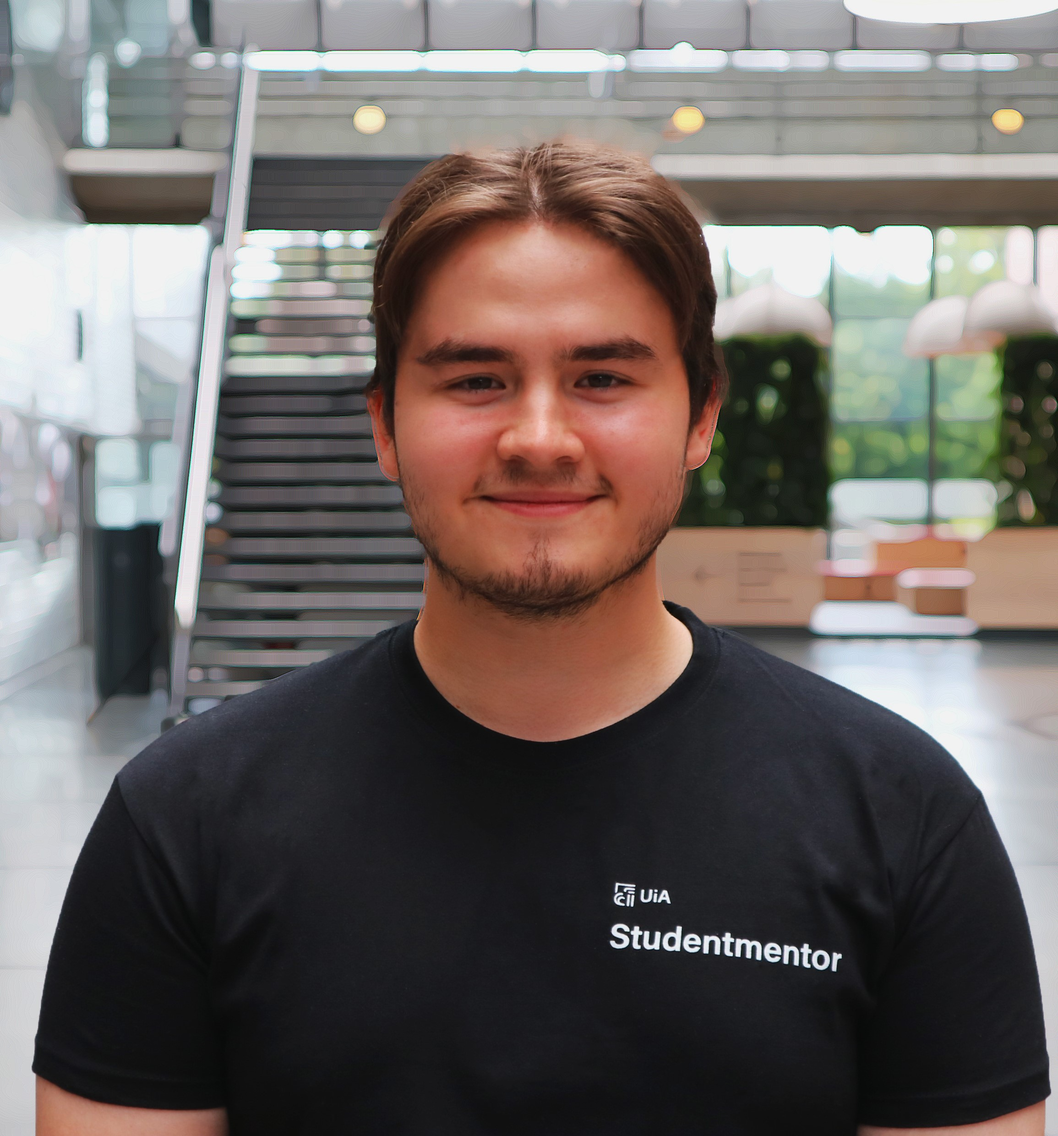
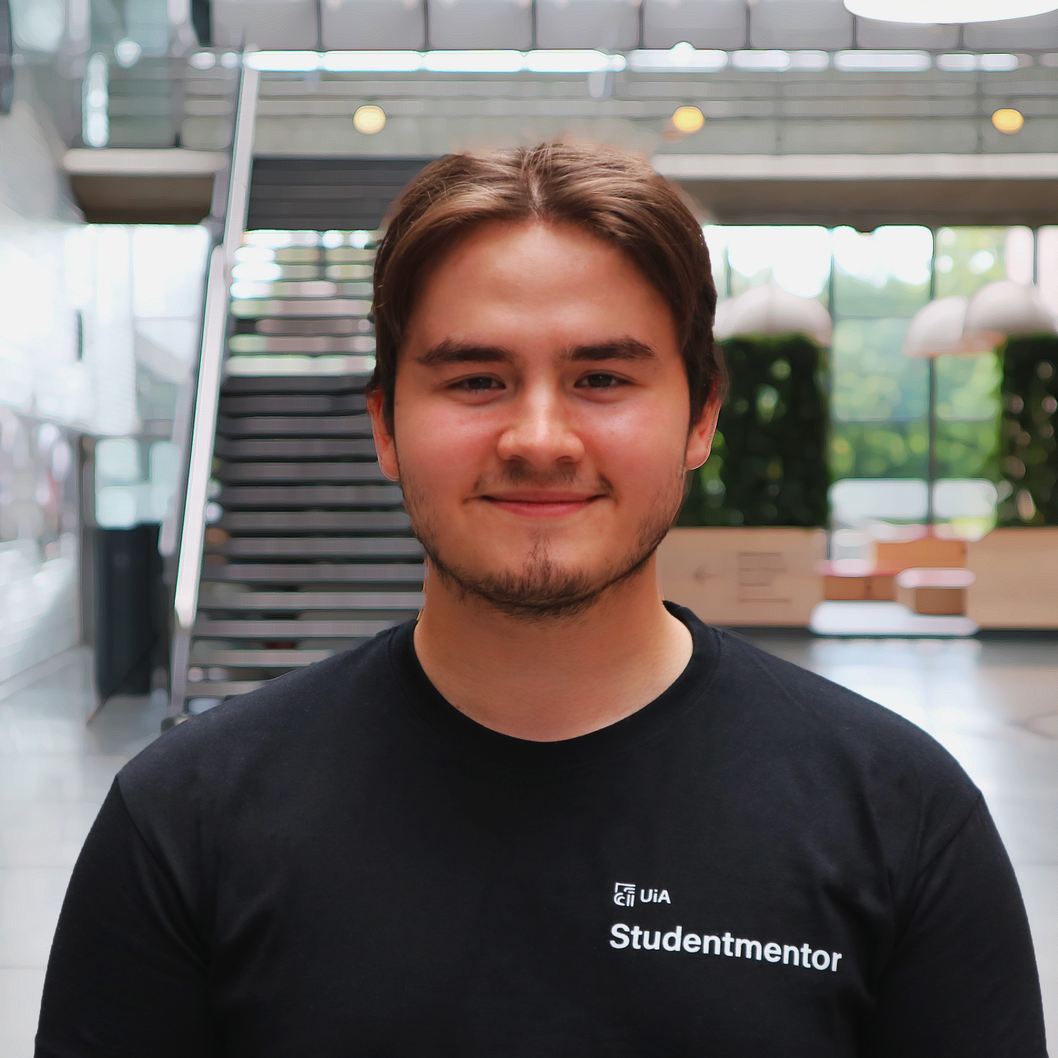
Fikset bildene
Gjort at bildene ikke er stretchet

diff --git a/data/siteMetadata.js b/data/siteMetadata.js
@@ -2,7 +2,7 @@
 const siteMetadata = {
   title: 'Gruppe 9',
   author: 'Jostein Engesæt, Michael Tangeraas, Frida Valvik, Hassan Heidari og Hans Christian Morka',
-  headerTitle: 'Praksisprosjekt',
+  headerTitle: 'Prosjektgjennomføring',
   description: 'Hjemmeside laget for å presentere gruppen i IS-310',
   language: 'en-us',
   theme: 'system', // system, dark or light
